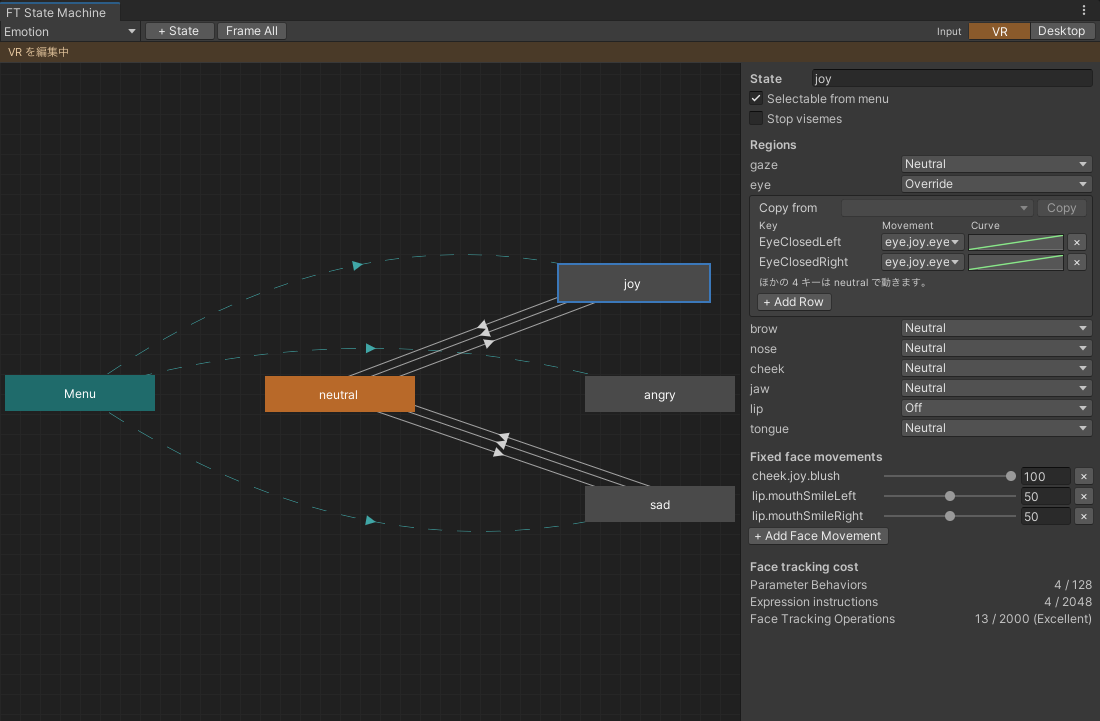
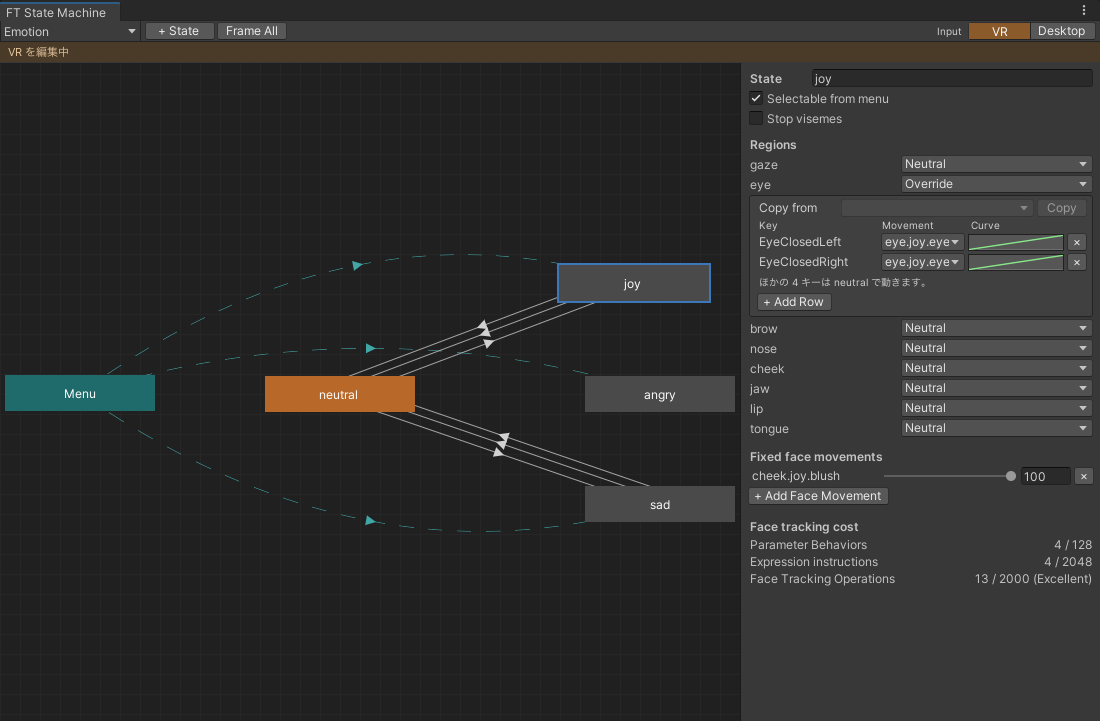
Name the version 1.0.0

Changed region(s): [[0.68, 0.6713, 0.8964, 0.8849], [0.8964, 0.6713, 1.0, 0.8849], [0.8345, 0.5492, 0.8655, 0.5798]]

diff --git a/Packages/dev.kmnk.face-tracking-generator/Documentation~/manual-ja/index.html b/Packages/dev.kmnk.face-tracking-generator/Documentation~/manual-ja/index.html
@@ -59,6 +59,7 @@ blockquote { margin: 1em 0; padding: 0 1em; color: var(--muted); border-left: 4p
 <li class="toc-3"><a href="#build--test-%E3%81%A7%E7%A2%BA%E8%AA%8D%E3%81%99%E3%82%8B">Build &amp; Test で確認する</a></li>
 <li class="toc-2"><a href="#%E3%83%91%E3%83%BC%E3%83%95%E3%82%A7%E3%82%AF%E3%83%88%E3%82%B7%E3%83%B3%E3%82%AF%E3%81%A7%E3%81%AA%E3%81%84%E3%82%A2%E3%83%90%E3%82%BF%E3%83%BC">パーフェクトシンクでないアバター</a></li>
 <li class="toc-3"><a href="#%E3%82%A2%E3%83%90%E3%82%BF%E3%83%BC%E3%81%AE%E5%85%83%E3%81%AE%E3%83%AC%E3%82%A4%E3%83%A4%E3%83%BC">アバターの元のレイヤー</a></li>
+<li class="toc-2"><a href="#afk-%E3%81%AE%E3%82%A2%E3%83%8B%E3%83%A1%E3%83%BC%E3%82%B7%E3%83%A7%E3%83%B3">AFK のアニメーション</a></li>
 <li class="toc-2"><a href="#vr-%E3%81%A8%E3%83%87%E3%82%B9%E3%82%AF%E3%83%88%E3%83%83%E3%83%97%E3%81%A7%E5%88%86%E3%81%91%E3%82%8B">VR とデスクトップで分ける</a></li>
 <li class="toc-3"><a href="#%E6%A9%9F%E5%99%A8%E3%82%92%E5%88%87%E3%82%8A%E6%9B%BF%E3%81%88%E3%81%A6%E6%9B%B8%E3%81%8F">機器を切り替えて書く</a></li>
 <li class="toc-3"><a href="#ft-measure-%E3%81%A7%E5%80%A4%E3%81%AE%E5%B9%85%E3%82%92%E8%A6%8B%E3%82%8B">FT Measure で値の幅を見る</a></li>
@@ -142,21 +143,41 @@ blockquote { margin: 1em 0; padding: 0 1em; color: var(--muted); border-left: 4p
 <h3 id="1-ft-の設定を作る">1. FT の設定を作る</h3>
 <ol>
 <li>FTG のウィンドウの「1. FT の設定を作る」の <strong>Avatar name</strong> に、設定の名前（アバターの名前など）を入れます</li>
-<li><strong>Create</strong> を押します。設定が作られると、ボタンの下に作った場所が出て、<strong>Settings file</strong> に作った <code>avatar.jsonc</code> が入ります</li>
+<li><strong>Create</strong> を押します。設定が作成されると、ボタンの下に path が出て、<strong>Settings file</strong> に <code>avatar.jsonc</code> が入ります</li>
 </ol>
-<p>設定は <code>Assets/Kmnk/FaceTrackingGenerator/Settings/&lt;名前&gt;/</code> に、<code>avatar.jsonc</code> と <code>expression.jsonc</code> としてテンプレートから作られます。表情の設定のテンプレートには、パーフェクトシンクの 52 の名前を neutral で動かす設定と、中身が空の State <code>joy</code>・<code>angry</code>・<code>sad</code> を持つ State Machine <code>Emotion</code> が入っています。</p>
-<p>同じ名前の設定が既にあると、何も作りません。そのときは <strong>Settings file</strong> で既にある設定を選んでください。</p>
+<p>設定は <code>Assets/Kmnk/FaceTrackingGenerator/Settings/&lt;名前&gt;/</code> に、次の 2 つのファイルとしてテンプレートから作成されます（2 つの役割は「<a href="#%E4%BB%95%E7%B5%84%E3%81%BF">仕組み</a>」）。</p>
+<ul>
+<li><code>avatar.jsonc</code>（アバターの設定）: Face movement ごとに、このアバターのどのシェイプキーを動かすか。手順 2 で選びます</li>
+<li><code>expression.jsonc</code>（表情の設定）: パーフェクトシンクの 52 の名前を neutral で動かす設定と、中身が空の State <code>joy</code>・<code>angry</code>・<code>sad</code> を持つ State Machine <code>Emotion</code> が入っています</li>
+</ul>
+<p>同じ名前の設定が既にあると、何も作成しません。そのときは <strong>Settings file</strong> で既にある設定を選んでください。</p>
 <h3 id="2-設定を編集する">2. 設定を編集する</h3>
 <ol>
-<li><strong>Open Settings Editor</strong> を押して設定エディタを開きます</li>
-<li><strong>Avatar</strong> タブで、アバターのプレハブを選び、<strong>Fill from Prefab</strong> を押します。顔のメッシュ、Expressions Menu、同じ名前のシェイプキーを持つ Face movement、空いている AFK のアニメーションの枠（アバター自身の AFK のレイヤーのクリップ）が埋まります（Undo で戻せます）。パーフェクトシンクのアバターなら、52 の Face movement のほとんどにシェイプキーが入ります</li>
-<li>一覧に <em>Not set</em> が残った Face movement は、アバターに合うシェイプキーがあれば選びます。全部を埋めなくてもかまいませんが、動くのはシェイプキーを選んだ Face movement だけです。パーフェクトシンクでないアバターでは Fill from Prefab で埋まるものが少ないので、少なくともまばたき（<code>eye.eyeBlinkLeft</code>・<code>eye.eyeBlinkRight</code>）と口の開き（<code>jaw.jawOpen</code>）を選んでください。1 つも選ばないと手順 5 で動くものが無く、手順 3 の Check が指摘します（選び方は「<a href="#%E3%83%91%E3%83%BC%E3%83%95%E3%82%A7%E3%82%AF%E3%83%88%E3%82%B7%E3%83%B3%E3%82%AF%E3%81%A7%E3%81%AA%E3%81%84%E3%82%A2%E3%83%90%E3%82%BF%E3%83%BC">パーフェクトシンクでないアバター</a>」）</li>
-<li><strong>Menu</strong> で、FT と AFK のトグルの名前と、それらを入れるサブメニューの名前（<strong>Submenu name (optional)</strong>、テンプレートの既定は <code>Face Tracking</code>）を確認します。サブメニューの名前を空にすると、トグルと State Machine のサブメニューがアバターの Expressions Menu の直下に並び、アバターの元の Expressions Menu と混ざるので、名前を入れておくのがおすすめです</li>
-<li><strong>AFK animation (optional)</strong> を開き、AFK の間に再生するクリップを見ます。Fill from Prefab は、空いている枠をアバター自身の AFK のレイヤーのクリップで埋めます。<strong>Action Loop</strong> と <strong>FX Loop</strong> の 2 つがあれば AFK が作られ、AFK のトグルも Expressions Menu に入ります（Intro と Outro は空なら飛ばします）。AFK を作らないときは、Loop の枠を空にします</li>
-<li><strong>Save</strong> を押します。保存できると、<strong>State Machine</strong> のボタンの右に出ていた <strong>Unsaved changes</strong> が消えます</li>
+<li>
+<p><strong>Open Settings Editor</strong> を押して設定エディタを開きます</p>
+</li>
+<li>
+<p><strong>Avatar</strong> タブの <strong>Prefab</strong> に、アバターのプレハブを入れ、<strong>Fill from Prefab</strong> を押します。</p>
+<ul>
+<li>プレハブは、Project ウィンドウにある拡張子 <code>.prefab</code> のファイルです。Project ウィンドウからドラッグするか、欄の右の丸いボタンで選びます</li>
+<li>Hierarchy にある、シーンの中のアバターは入れられません</li>
+<li>ルートに VRC Avatar Descriptor が付いたプレハブを選んでください。FBX などのモデルのファイルも欄には入りますが、Avatar Descriptor が無いので、Fill from Prefab がエラーで止まります</li>
+</ul>
+<p><strong>Fill from Prefab</strong> を押すと、顔のメッシュ、Expressions Menu、同じ名前のシェイプキーを持つ Face movement、空いている AFK のアニメーションの枠（アバター自身の AFK のレイヤーのクリップ）が埋まります（Undo で戻せます）。パーフェクトシンクのアバターなら、52 の Face movement のほとんどにシェイプキーが入ります</p>
+<p>Avatar タブの下の <strong>AFK animation (optional)</strong> は、AFK（離席中）の間に再生するクリップの設定です。ここでは変えずに進めてかまいません（「<a href="#afk-%E3%81%AE%E3%82%A2%E3%83%8B%E3%83%A1%E3%83%BC%E3%82%B7%E3%83%A7%E3%83%B3">AFK のアニメーション</a>」）</p>
+</li>
+<li>
+<p>一覧に <em>Not set</em> が残った Face movement は、アバターに合うシェイプキーがあれば選びます。全部を埋めなくてもかまいませんが、動くのはシェイプキーを選んだ Face movement だけです。パーフェクトシンクでないアバターでは Fill from Prefab で埋まるものが少ないので、少なくともまばたき（<code>eye.eyeBlinkLeft</code>・<code>eye.eyeBlinkRight</code>）と口の開き（<code>jaw.jawOpen</code>）を選んでください。1 つも選ばないと「5. Build &amp; Test で確認する」で動くものが無く、「3. 設定を確認する」の Check が指摘します（選び方は「<a href="#%E3%83%91%E3%83%BC%E3%83%95%E3%82%A7%E3%82%AF%E3%83%88%E3%82%B7%E3%83%B3%E3%82%AF%E3%81%A7%E3%81%AA%E3%81%84%E3%82%A2%E3%83%90%E3%82%BF%E3%83%BC">パーフェクトシンクでないアバター</a>」）</p>
+</li>
+<li>
+<p><strong>Menu</strong> から下は、Expressions Menu に入れる FT と AFK のトグルの設定です。ここでは変えずに進めてかまいません（各項目は「<a href="#avatar-%E3%82%BF%E3%83%96">Avatar タブ</a>」）</p>
+</li>
+<li>
+<p><strong>Save</strong> を押します。保存できると、<strong>State Machine</strong> のボタンの右に出ていた <strong>Unsaved changes</strong> が消えます</p>
+</li>
 </ol>
 <p><img src="images/avatar-tab.png" alt="設定エディタの Avatar タブ"></p>
-<p>画像は、パーフェクトシンクでないアバターで手順 6 まで進めた Avatar タブです。そのため <em>Not set</em> が多く残っています。シェイプキーとアセットの名前は隠しています。</p>
+<p>画像は、パーフェクトシンクでないアバターで手順 5 まで進めた Avatar タブです。そのため <em>Not set</em> が多く残っています。シェイプキーとアセットの名前は隠しています。</p>
 <h3 id="3-設定を確認する">3. 設定を確認する</h3>
 <p>FTG のウィンドウに戻り、<strong>Check</strong> を押します。指摘があれば、読んで設定エディタで直します。</p>
 <p>設定に問題が無ければ、ボタンの下に「Check: 指摘はありません。」と出ます。</p>
@@ -171,14 +192,14 @@ blockquote { margin: 1em 0; padding: 0 1em; color: var(--muted); border-left: 4p
 <p>画像のアバターの名前は隠しています。</p>
 <p>Inspector でアバターを見ると、Settings Component に使う設定のファイルが出ています。FT の設定は、アップロードと Play Mode のタイミングで自動的に作成されます。</p>
 <h3 id="5-build--test-で確認する">5. Build &amp; Test で確認する</h3>
-<p>VRChat SDK の Build &amp; Test でアバターを作り、VRChat で着替えます。</p>
+<p>VRChat SDK の Build &amp; Test でアバターをビルドし、VRChat で着替えます。</p>
 <ul>
 <li>VR の機器: VRCFaceTracking を動かしてから VRChat を起動します</li>
 <li>デスクトップ: VRChat の Selfie Expression を有効にします</li>
 </ul>
 <p>FT が動いていると、シェイプキーを選んだ Face movement（まばたきや口の開きなど）が、自分の顔に合わせて動きます。Expressions Menu の <strong>Face Tracking</strong> のサブメニュー（手順 2 で決めた名前）に、FT のトグルと State Machine のサブメニューが出ます。FT の入力が無いと、アバターの元の表情に戻ります。顔が動かないときは「<a href="#%E5%9B%B0%E3%81%A3%E3%81%9F%E3%81%A8%E3%81%8D">困ったとき</a>」を見てください。</p>
 <h2 id="表情を作る">表情を作る</h2>
-<p>「はじめての設定」で作った設定の <code>joy</code> の State に、目と口の動きを追加します。</p>
+<p>「はじめての設定」で作成された設定の <code>joy</code> の State に、目と口の動きを追加します。</p>
 <h3 id="state-machine-のウィンドウを開く">State Machine のウィンドウを開く</h3>
 <p>設定エディタの <strong>State Machine</strong> のボタン（または <code>Tools/Kmnk/Face Tracking State Machine</code>）で、State Machine のウィンドウを開きます。オレンジの State が最初の State です。</p>
 <p><img src="images/state-machine.png" alt="State Machine のウィンドウ"></p>
@@ -190,13 +211,12 @@ blockquote { margin: 1em 0; padding: 0 1em; color: var(--muted); border-left: 4p
 <li><code>joy</code> の間だけ使う Face movement は、先に設定エディタの Avatar タブの <strong>+ Add Face Movement</strong> で <code>eye.joy.eyeBlinkLeft</code> のように「Region.State.名前」で追加し、使いたいシェイプキー（目を弧の形にして閉じるシェイプキーなど）を当てておきます</li>
 </ul>
 </li>
-<li>口の Region（lip）を <strong>Off</strong> にし、neutral の口の動きを止めます。口角を上げた口の形は、次の 4 で Fixed face movements として出します</li>
-<li><strong>Fixed face movements</strong> の <strong>+ Add Face Movement</strong> で、<code>joy</code> の間ずっと出す Face movement を 0〜100 で追加します。たとえば <code>lip.mouthSmileLeft</code> と <code>lip.mouthSmileRight</code> を 50 にすると口角が上がったまま、<code>cheek.joy.blush</code> のような頬の赤らみを追加すると頬が赤くなります</li>
+<li><strong>Fixed face movements</strong> の <strong>+ Add Face Movement</strong> で、<code>joy</code> の間ずっと出す Face movement を 0〜100 で追加します。たとえば <code>cheek.joy.blush</code> のような頬の赤らみを追加すると、<code>joy</code> の間は頬が赤くなります</li>
 <li><strong>Save</strong> を押します</li>
 </ol>
 <p>State を選ぶと、Face view にその State の顔が出ます。</p>
 <p><img src="images/face-view-joy.png" alt="Face view の joy の顔"></p>
-<p>Region の <strong>Off</strong> は、その Region の neutral の動きを止めます。<strong>Don't move</strong> の行は、そのキーで何も動かしません。<strong>Copy from</strong> で、別の State の行を写せます。</p>
+<p>Region の <strong>Off</strong> は、その Region の neutral の動きを止めます。話している間にも入る State（口角で入る <code>joy</code> など）で口の Region（lip）を Off にすると、その間は FT で口角や唇が動かなくなります。<strong>Don't move</strong> の行は、そのキーで何も動かしません。<strong>Copy from</strong> で、別の State の行を写せます。</p>
 <h3 id="transition-の条件を変える">Transition の条件を変える</h3>
 <p>テンプレートの Transition は、入り方の 3 つの見本になっています。</p>
 <ul>
@@ -210,7 +230,7 @@ blockquote { margin: 1em 0; padding: 0 1em; color: var(--muted); border-left: 4p
 </ol>
 <p><img src="images/state-machine-transition.png" alt="Transition を選んだ State Machine のウィンドウ"></p>
 <ol start="2">
-<li>条件の値（<a href="#%E7%94%A8%E8%AA%9E%E9%9B%86">しきい値</a>）を変えます。入りにくければ下げ、入りすぎるなら上げます。変えた値は Preview にもすぐ効きます</li>
+<li>条件の値（<a href="#%E7%94%A8%E8%AA%9E%E9%9B%86">しきい値</a>）を変えます。入りにくければ下げ、入りすぎるなら上げます。変えた値は Preview にもすぐ反映されます</li>
 <li>1 本の Transition の条件は、すべて満たしたときに移ります（テンプレートの joy の入り方）。どれか 1 つで移る形は、同じ State の間に Transition を条件ごとに作ります（テンプレートの joy の出方）</li>
 </ol>
 <h3 id="preview-で確認する">Preview で確認する</h3>
@@ -231,7 +251,7 @@ blockquote { margin: 1em 0; padding: 0 1em; color: var(--muted); border-left: 4p
 </ol>
 <p>値が届き始めると、ボタンの下にそのことが出て、スライダーが顔に合わせて動きます。<strong>Stop</strong> で止めます。Send Port を変えたときは、VRChat を起動する前に戻してください。</p>
 <h3 id="build--test-で確認する">Build &amp; Test で確認する</h3>
-<p>設定を変えたら、「<a href="#5-build--test-%E3%81%A7%E7%A2%BA%E8%AA%8D%E3%81%99%E3%82%8B">5. Build &amp; Test で確認する</a>」と同じ手順でアバターを作り、VRChat で確認します。Transition の条件に合う顔をするとその State に入り、上書きした Region と Fixed face movements がその State の顔になることを見ます。Expressions Menu の State Machine のサブメニューでその State を選んだときにも、同じ顔になります。</p>
+<p>設定を変えたら、「<a href="#5-build--test-%E3%81%A7%E7%A2%BA%E8%AA%8D%E3%81%99%E3%82%8B">5. Build &amp; Test で確認する</a>」と同じ手順でアバターをビルドし、VRChat で確認します。Transition の条件に合う顔をするとその State に入り、上書きした Region と Fixed face movements がその State の顔になることを見ます。Expressions Menu の State Machine のサブメニューでその State を選んだときにも、同じ顔になります。</p>
 <h2 id="パーフェクトシンクでないアバター">パーフェクトシンクでないアバター</h2>
 <p>アバターのシェイプキーの名前が ARKit の名前と違うときは、Avatar タブで Face movement ごとにシェイプキーを選びます。</p>
 <ul>
@@ -248,6 +268,13 @@ blockquote { margin: 1em 0; padding: 0 1em; color: var(--muted); border-left: 4p
 <li><strong>Stop while FT</strong>: 手のジェスチャーで表情を変えるレイヤー</li>
 <li><strong>Mute while FT</strong>: 何も入力が無くても顔を動かすレイヤー（ずっとまばたきさせるレイヤーなど）。これを止めないと、FT のまぶたの上にまばたきが重なります</li>
 <li>Expressions Menu からだけ動かすレイヤーは、そのままでかまいません</li>
+</ul>
+<h2 id="afk-のアニメーション">AFK のアニメーション</h2>
+<p>設定エディタの Avatar タブの <strong>AFK animation (optional)</strong> で、AFK の間に再生するクリップを決めます。<strong>Action Intro</strong>・<strong>Action Loop</strong>・<strong>Action Outro</strong>・<strong>FX Intro</strong>・<strong>FX Loop</strong>・<strong>FX Outro</strong> の 6 つの枠があります。</p>
+<ul>
+<li><strong>Fill from Prefab</strong> は、空いている枠をアバター自身の AFK のレイヤーのクリップで埋めます</li>
+<li><strong>Action Loop</strong> と <strong>FX Loop</strong> の 2 つがあれば AFK が作成され、AFK のトグルも Expressions Menu に入ります。Intro と Outro は空なら飛ばします</li>
+<li>AFK が要らないときは、Loop の枠を空にします</li>
 </ul>
 <h2 id="vr-とデスクトップで分ける">VR とデスクトップで分ける</h2>
 <p>VR の機器とデスクトップの Selfie Expression では、同じ顔でも動くキーと値の幅が違うことがあります。FTG では、次を機器ごとに書けます。</p>
@@ -266,7 +293,7 @@ blockquote { margin: 1em 0; padding: 0 1em; color: var(--muted); border-left: 4p
 <li>グラフには、その機器の Transition が出ます。Transition を追加したり条件を変えたりすると、その機器だけが変わります</li>
 <li>両方の機器で共通の Transition を変えると、その Transition は 2 つに分かれ、もう片方の機器は元のまま残ります</li>
 </ol>
-<p>Preview タブの <strong>Device</strong> で VR かデスクトップを選ぶと、Preview はその機器の Transition と Curve で動きます。</p>
+<p>Preview タブの <strong>Device</strong> で機器を選ぶと、Preview はその機器の Transition と Curve で動きます。<strong>Selfie Expression</strong> と <strong>Desktop (records)</strong> はデスクトップとして、ほかの機器と <strong>None</strong> は VR として動きます。</p>
 <h3 id="ft-measure-で値の幅を見る">FT Measure で値の幅を見る</h3>
 <p>FT Measure は、利用者の顔で表情ごとに FT の値を測り、記録のファイル（<code>.jsonl</code>）に書くアプリです。記録を FTG に読ませると、どのキーがどのくらい動くかを見て、Transition のキーとしきい値を選べます。記録は参考に見るだけで、FTG の出力は変わりません。FT Measure を使わなくても、FTG は使えます。</p>
 <p>測り方は FT Measure の説明書（<a href="https://github.com/kmnk/ft-measure/blob/master/docs/manual-ja/README.md">https://github.com/kmnk/ft-measure/blob/master/docs/manual-ja/README.md</a> ）にあります。測った後は次のとおり読ませます。</p>
@@ -316,7 +343,7 @@ blockquote { margin: 1em 0; padding: 0 1em; color: var(--muted); border-left: 4p
 </tr>
 <tr>
 <td>Avatar name</td>
-<td><strong>Create</strong> で作る設定の名前。プロジェクトごとに覚えます</td>
+<td><strong>Create</strong> で作成される設定の名前。プロジェクトごとに覚えます</td>
 </tr>
 <tr>
 <td>Manual</td>
@@ -328,11 +355,11 @@ blockquote { margin: 1em 0; padding: 0 1em; color: var(--muted); border-left: 4p
 </tr>
 <tr>
 <td>Create</td>
-<td>入れた名前で、テンプレートから設定を作ります</td>
+<td>入れた名前で、テンプレートから設定を作成します</td>
 </tr>
 <tr>
 <td>Create from Folder…</td>
-<td><strong>Share</strong> で書き出したフォルダの表情の設定から、設定を作ります</td>
+<td><strong>Share</strong> で書き出したフォルダの表情の設定から、設定を作成します</td>
 </tr>
 <tr>
 <td>Open Settings Editor</td>
@@ -340,7 +367,7 @@ blockquote { margin: 1em 0; padding: 0 1em; color: var(--muted); border-left: 4p
 </tr>
 <tr>
 <td>Check</td>
-<td>保存した設定と、作った FX のコントローラーを確認します</td>
+<td>保存した設定と、生成された FX のコントローラーを確認します</td>
 </tr>
 <tr>
 <td>Avatar in scene</td>
@@ -356,7 +383,7 @@ blockquote { margin: 1em 0; padding: 0 1em; color: var(--muted); border-left: 4p
 </tr>
 <tr>
 <td>Generate（Advanced）</td>
-<td>アバターを書き換えずに、作ったコントローラーと Prefab Variant を <code>Assets/FaceTrackingGeneratorOutput/&lt;名前&gt;/</code> に書きます</td>
+<td>アバターを書き換えずに、生成されたコントローラーと Prefab Variant を <code>Assets/FaceTrackingGeneratorOutput/&lt;名前&gt;/</code> に書きます</td>
 </tr>
 <tr>
 <td>Scenario check (Play Mode)（Advanced）</td>
@@ -411,7 +438,7 @@ blockquote { margin: 1em 0; padding: 0 1em; color: var(--muted); border-left: 4p
 <tbody>
 <tr>
 <td>Prefab</td>
-<td>FT を作るアバターのプレハブ</td>
+<td>FT のコントローラーを生成する対象の、アバターのプレハブ（<code>.prefab</code> のファイル。シーンの中のアバターは入れられません）</td>
 </tr>
 <tr>
 <td>Fill from Prefab</td>
@@ -431,7 +458,7 @@ blockquote { margin: 1em 0; padding: 0 1em; color: var(--muted); border-left: 4p
 </tr>
 <tr>
 <td>Menu</td>
-<td>FT と AFK のトグルを入れる Expressions Menu</td>
+<td>FT と AFK のトグルを入れる Expressions Menu。アバターの Expressions Menu か、そのサブメニューを選びます。空なら、アバターの Expressions Menu の一番上に入ります。アバターに Expressions Menu が無いと、トグルと State Machine のサブメニューは入りません（Console に <code>notice: menu: the avatar has no Expressions Menu</code> が出ます）</td>
 </tr>
 <tr>
 <td>FT toggle name / AFK toggle name</td>
@@ -439,7 +466,7 @@ blockquote { margin: 1em 0; padding: 0 1em; color: var(--muted); border-left: 4p
 </tr>
 <tr>
 <td>Submenu name (optional)</td>
-<td>トグルと State Machine のサブメニューを入れるサブメニューの名前。テンプレートの既定は <code>Face Tracking</code>。空なら Expressions Menu の直下</td>
+<td>トグルと State Machine のサブメニューを入れるサブメニューの名前。テンプレートの既定は <code>Face Tracking</code>。空にすると、アバターの Expressions Menu の直下に並び、元の項目と混ざります</td>
 </tr>
 <tr>
 <td>AFK animation (optional)</td>
@@ -569,7 +596,7 @@ blockquote { margin: 1em 0; padding: 0 1em; color: var(--muted); border-left: 4p
 </tr>
 <tr>
 <td>+ State Machine</td>
-<td>State Machine が 1 つも無いときに、State Machine を作ります</td>
+<td>State Machine が 1 つも無いときに、State Machine を作成します</td>
 </tr>
 <tr>
 <td>+ State</td>
@@ -653,7 +680,7 @@ blockquote { margin: 1em 0; padding: 0 1em; color: var(--muted); border-left: 4p
 </tr>
 <tr>
 <td>Face tracking cost</td>
-<td>設定が作るものの数と、パフォーマンスランク。<strong>Parameter Behaviors</strong>（VRChat の上限 128）、<strong>Expression instructions</strong>（上限 2048）、<strong>Face Tracking Operations</strong>（2000 を超えると Excellent でなくなる）</td>
+<td>この設定から生成されるものの数と、パフォーマンスランク。<strong>Parameter Behaviors</strong>（VRChat の上限 128）、<strong>Expression instructions</strong>（上限 2048）、<strong>Face Tracking Operations</strong>（2000 を超えると Excellent でなくなる）</td>
 </tr>
 <tr>
 <td>Open Settings Editor</td>
@@ -716,7 +743,7 @@ blockquote { margin: 1em 0; padding: 0 1em; color: var(--muted); border-left: 4p
 </tr>
 <tr>
 <td>Blendshapes Set</td>
-<td>VRChat のネイティブ FT の、シェイプキーの組。FTG は Region と State ごとに作ります</td>
+<td>VRChat のネイティブ FT の、シェイプキーの組。FTG は Region と State ごとに生成します</td>
 </tr>
 <tr>
 <td>Forward to Animator</td>
@@ -730,7 +757,7 @@ blockquote { margin: 1em 0; padding: 0 1em; color: var(--muted); border-left: 4p
 </table>
 <h2 id="更新と削除">更新と削除</h2>
 <h3 id="更新のしかた">更新のしかた</h3>
-<p>VCC か ALCOM のパッケージの一覧で、新しいバージョンを選びます。作った設定（<code>Assets/Kmnk/FaceTrackingGenerator/Settings/</code>）はパッケージの外にあるので残ります。<code>Packages/dev.kmnk.face-tracking-generator/</code> の中に自分のファイルを置かないでください。更新で消えます。</p>
+<p>VCC か ALCOM のパッケージの一覧で、新しいバージョンを選びます。<strong>Create</strong> で作成された設定（<code>Assets/Kmnk/FaceTrackingGenerator/Settings/</code>）はパッケージの外にあるので残ります。<code>Packages/dev.kmnk.face-tracking-generator/</code> の中に自分のファイルを置かないでください。更新で消えます。</p>
 <h3 id="消し方">消し方</h3>
 <ol>
 <li>アバターから Settings Component（Face Tracking Generator Settings）を外します</li>
@@ -752,7 +779,7 @@ blockquote { margin: 1em 0; padding: 0 1em; color: var(--muted); border-left: 4p
 <h3 id="excellent-でなくなる">Excellent でなくなる</h3>
 <ul>
 <li>Transition の条件に使うキーが 10 を超えると、<a href="#%E7%94%A8%E8%AA%9E%E9%9B%86">Forwarded Parameters</a> で Excellent でなくなります</li>
-<li>VR とデスクトップで Curve を分けると、Blendshapes Set の数が約 2 倍になります。<strong>Face tracking cost</strong> を見てください</li>
+<li>1 つの行でも VR とデスクトップで Curve を分けると、すべての Blendshapes Set が VR 用とデスクトップ用に分かれ、Blendshapes Set の数が 2 倍になります。Face Tracking Operations も増えるので、<strong>Face tracking cost</strong> を見てください</li>
 </ul>
 <h3 id="ウィンドウが止まったまま">ウィンドウが止まったまま</h3>
 <ul>
@@ -760,7 +787,7 @@ blockquote { margin: 1em 0; padding: 0 1em; color: var(--muted); border-left: 4p
 </ul>
 <h3 id="ndmf-の-manual-bake-で-ft-が無い">NDMF の Manual Bake で FT が無い</h3>
 <ul>
-<li>NDMF の Manual Bake では、FTG はエラーで止まり、FT が作られません。Play Mode かアップロードで確認してください</li>
+<li>NDMF の Manual Bake では、FTG はエラーで止まり、FT の設定が作成されません。Play Mode かアップロードで確認してください</li>
 </ul>
 <h3 id="live-input-の後に-vrchat-で顔が動かない">Live input の後に VRChat で顔が動かない</h3>
 <ul>

diff --git a/Packages/dev.kmnk.face-tracking-generator/Editor/TableEditor/EditorText.cs b/Packages/dev.kmnk.face-tracking-generator/Editor/TableEditor/EditorText.cs
@@ -79,7 +79,7 @@ namespace Kmnk.FaceTrackingGenerator
             ["live.waiting"] = ("Waiting on port {0}. Nothing has arrived for a second.", "ポート {0} で待っています。1 秒以上届いていません。"),
             ["live.receiving"] = ("Receiving on port {0}: {1} messages in the last second.", "ポート {0} で受信中: 直近 1 秒に {1} メッセージ。"),
             ["live.error"] = ("Could not open port {0}: {1}", "ポート {0} を開けませんでした: {1}"),
-            ["live.ignored"] = (" Ignored: {0}.", " 読めずに捨てたもの: {0}。"),
+            ["live.ignored"] = (" Ignored: {0}.", " 無視したもの: {0}。"),
             ["switches.title"] = ("States", "State"),
             ["switches.byValue"] = ("(by the values)", "（値で切り替え中）"),
             ["switches.byMenu"] = ("(chosen in the menu)", "（メニューで選択中）"),
@@ -102,7 +102,7 @@ namespace Kmnk.FaceTrackingGenerator
             ["sm.removeState"] = ("Remove the state \"{0}\" and its transitions?", "State \"{0}\" と、その Transition を消します。"),
             ["devices.noRecords"] = ("No recordings. Add recordings made with ft-measure to see the range of values measured on that device.", "記録がありません。ft-measure で測った記録を入れると、その機器で測定した値の範囲を確認できます。"),
             ["range.neutral"] = ("neutral", "真顔"),
-            ["range.talk"] = ("talking", "真顔で喋る"),
+            ["range.talk"] = ("talking with a neutral face", "真顔で喋る"),
             ["range.smile"] = ("talking with a smile", "笑顔で喋る"),
             ["sm.inputBand"] = ("Editing {0}", "{0} を編集中"),
             ["preview.side"] = ("Runs as {0}: the transitions and curves of {0}", "{0} として動く: {0} の Transition と Curve"),
@@ -154,7 +154,7 @@ namespace Kmnk.FaceTrackingGenerator
             ["tip.muteWhileFT"] = ("While FT is on, the layer stops entirely, also what moves the face by itself (such as automatic blinking). For blinking and eye layers; FX only.", "FT の間、丸ごと止めます。何もしなくても顔を動かし続けるもの（自動のまばたきなど）も止まります。まばたきや目の動きのレイヤー向けで、FX でだけ選べます。"),
             ["tip.live"] = ("Moves the inputs with the values VRCFaceTracking sends (/tracking/face/v1). Set VRCFaceTracking's Send Port to this port and do not run VRChat.", "VRCFaceTracking が送る値（/tracking/face/v1）で入力を動かします。VRCFaceTracking の Send Port をこのポートにし、VRChat は起動しないでください。"),
             ["tip.amount"] = ("Over 100 (red): shapes add up so much that the face can break.", "100 を超える赤い行は、形が重なりすぎて崩れることがあります。"),
-            ["tip.device"] = ("Runs the preview as the chosen device: the sliders show the values it sends.", "選んだ機器として動かします。スライダーには、その機器が送る値の範囲が出ます。"),
+            ["tip.device"] = ("Runs the preview as the chosen device: under each slider is the range of values it sends.", "選んだ機器として動かします。スライダーには、その機器が送る値の範囲が出ます。"),
             ["tip.previewMenu"] = ("A state chosen as the menu does. None: the values choose the state.", "Expressions Menu で選んだ State。None なら値で切り替わります。"),
             ["tip.regionMode"] = ("Neutral: the region moves as in neutral. Override: while in this state, the region moves with the rows below. Off: the region's neutral stops.", "Neutral: neutral のとおりに動きます。Override: この State の間、下の行で動かします。Off: その Region の neutral を止めます。"),
         };
